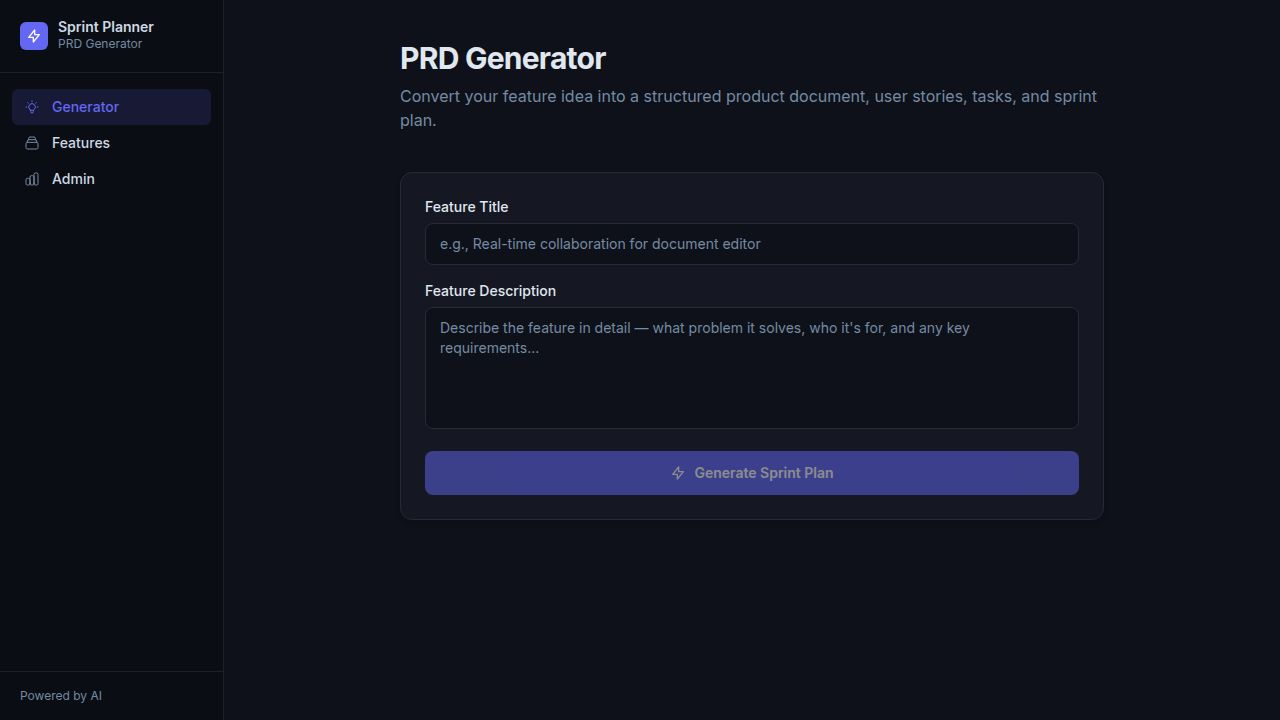
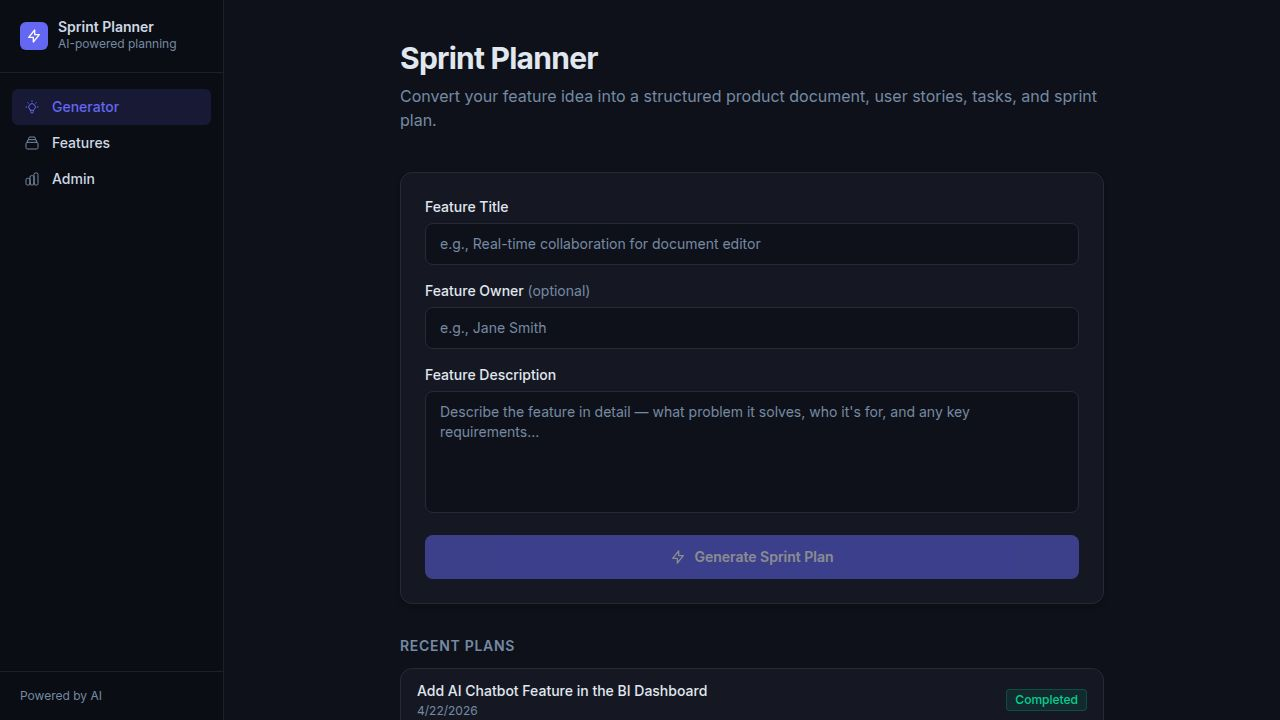
Add feature owner tracking and reporting capabilities to the sprint planner
Introduces an `ownerName` field to the `features` table, API schemas, and frontend forms/views. Includes owner filtering on the Features page and a new "Features by Owner" chart on the Admin Dashboard.

Replit-Commit-Author: Agent
Replit-Commit-Session-Id: 9315dca2-bc02-44ef-9aff-f56e471ed505
Replit-Commit-Checkpoint-Type: full_checkpoint
Replit-Commit-Event-Id: bdafb7a0-9e80-4839-8b6c-be1e6f203f5d
Replit-Commit-Screenshot-Url: https://storage.googleapis.com/screenshot-production-us-central1/74670118-1cdc-4ae3-b2b8-23c83b443172/9315dca2-bc02-44ef-9aff-f56e471ed505/5VO8XEa
Replit-Helium-Checkpoint-Created: true

diff --git a/artifacts/sprint-planner/src/pages/Admin.tsx b/artifacts/sprint-planner/src/pages/Admin.tsx
@@ -1,4 +1,4 @@
-import { useGetAdminStats, useGetRecentActivity, useListPrds } from "@workspace/api-client-react";
+import { useGetAdminStats, useGetRecentActivity, useListPrds, useListFeatures } from "@workspace/api-client-react";
 import { useLocation } from "wouter";
 import {
   BarChart, Bar, PieChart, Pie, Cell, XAxis, YAxis, Tooltip, ResponsiveContainer, Legend,
@@ -32,9 +32,28 @@ export default function Admin() {
   const { data: stats, isLoading: statsLoading } = useGetAdminStats();
   const { data: activity, isLoading: activityLoading } = useGetRecentActivity();
   const { data: prds } = useListPrds();
+  const { data: features } = useListFeatures();
   const [, navigate] = useLocation();
 
   const prdById = new Map((prds || []).map(p => [p.id, p]));
+  const prdByFeatureId = new Map((prds || []).map(p => [p.featureId, p]));
+
+  const ownerData = (() => {
+    const map = new Map<string, { features: number; tasks: number; effortPoints: number }>();
+    for (const f of (features || [])) {
+      const owner = f.ownerName || "Unassigned";
+      const prd = prdByFeatureId.get(f.id);
+      const existing = map.get(owner) || { features: 0, tasks: 0, effortPoints: 0 };
+      map.set(owner, {
+        features: existing.features + 1,
+        tasks: existing.tasks + (prd?.totalTasks ?? 0),
+        effortPoints: existing.effortPoints + (prd?.totalEffortPoints ?? 0),
+      });
+    }
+    return Array.from(map.entries())
+      .map(([name, data]) => ({ name, ...data }))
+      .sort((a, b) => b.features - a.features);
+  })();
 
   const priorityData = stats ? [
     { name: "Critical", value: stats.tasksByPriority.critical },
@@ -112,6 +131,56 @@ export default function Admin() {
           )}
         </>
       ) : null}
+
+      {ownerData.length > 0 && (
+        <div className="bg-card border border-card-border rounded-xl p-5 mb-8">
+          <h3 className="text-sm font-semibold text-foreground mb-1">Features by Owner</h3>
+          <p className="text-xs text-muted-foreground mb-4">Tasks and effort points broken down per feature owner</p>
+          <div className="overflow-x-auto">
+            <table className="w-full text-sm">
+              <thead>
+                <tr className="border-b border-card-border">
+                  <th className="text-left text-xs font-medium text-muted-foreground uppercase tracking-wider pb-2 pr-6">Owner</th>
+                  <th className="text-right text-xs font-medium text-muted-foreground uppercase tracking-wider pb-2 pr-6">Features</th>
+                  <th className="text-right text-xs font-medium text-muted-foreground uppercase tracking-wider pb-2 pr-6">Tasks</th>
+                  <th className="text-right text-xs font-medium text-muted-foreground uppercase tracking-wider pb-2">Effort pts</th>
+                </tr>
+              </thead>
+              <tbody className="divide-y divide-border">
+                {ownerData.map(row => (
+                  <tr key={row.name}>
+                    <td className="py-2.5 pr-6">
+                      <div className="flex items-center gap-2">
+                        <div className="w-6 h-6 rounded-full bg-primary/20 flex items-center justify-center flex-shrink-0">
+                          <span className="text-xs font-semibold text-primary">{row.name[0].toUpperCase()}</span>
+                        </div>
+                        <span className="text-foreground font-medium">{row.name}</span>
+                      </div>
+                    </td>
+                    <td className="py-2.5 pr-6 text-right tabular-nums text-foreground">{row.features}</td>
+                    <td className="py-2.5 pr-6 text-right tabular-nums text-blue-400">{row.tasks}</td>
+                    <td className="py-2.5 text-right tabular-nums text-amber-400">{row.effortPoints}</td>
+                  </tr>
+                ))}
+              </tbody>
+            </table>
+          </div>
+          {ownerData.length > 1 && (
+            <div className="mt-4">
+              <ResponsiveContainer width="100%" height={180}>
+                <BarChart data={ownerData} margin={{ top: 5, right: 10, bottom: 5, left: 0 }}>
+                  <XAxis dataKey="name" tick={{ fill: "hsl(213 20% 55%)", fontSize: 11 }} axisLine={false} tickLine={false} />
+                  <YAxis tick={{ fill: "hsl(213 20% 55%)", fontSize: 11 }} axisLine={false} tickLine={false} />
+                  <Tooltip contentStyle={{ background: "hsl(226 24% 11%)", border: "1px solid hsl(226 18% 18%)", borderRadius: "8px", color: "hsl(213 31% 91%)" }} />
+                  <Legend wrapperStyle={{ fontSize: 11, color: "hsl(213 20% 55%)" }} />
+                  <Bar dataKey="features" name="Features" fill="#6366f1" radius={[4, 4, 0, 0]} />
+                  <Bar dataKey="tasks" name="Tasks" fill="#3b82f6" radius={[4, 4, 0, 0]} />
+                </BarChart>
+              </ResponsiveContainer>
+            </div>
+          )}
+        </div>
+      )}
 
       <div className="bg-card border border-card-border rounded-xl overflow-hidden">
         <div className="px-5 py-4 border-b border-card-border">

diff --git a/artifacts/sprint-planner/src/pages/Features.tsx b/artifacts/sprint-planner/src/pages/Features.tsx
@@ -21,6 +21,7 @@ const statusLabels: Record<string, string> = {
 
 export default function Features() {
   const [search, setSearch] = useState("");
+  const [ownerFilter, setOwnerFilter] = useState("");
   const [, navigate] = useLocation();
   const queryClient = useQueryClient();
 
@@ -30,8 +31,16 @@ export default function Features() {
 
   const prdByFeatureId = new Map((prds || []).map(p => [p.featureId, p]));
 
+  const allOwners = Array.from(
+    new Set((features || []).map(f => f.ownerName).filter(Boolean) as string[])
+  ).sort();
+
   const filtered = (features || [])
-    .filter(f => !search || f.title.toLowerCase().includes(search.toLowerCase()) || f.description.toLowerCase().includes(search.toLowerCase()))
+    .filter(f => {
+      const matchesSearch = !search || f.title.toLowerCase().includes(search.toLowerCase()) || f.description.toLowerCase().includes(search.toLowerCase());
+      const matchesOwner = !ownerFilter || f.ownerName === ownerFilter;
+      return matchesSearch && matchesOwner;
+    })
     .slice()
     .reverse();
 
@@ -66,8 +75,8 @@ export default function Features() {
         </button>
       </div>
 
-      <div className="mb-5">
-        <div className="relative">
+      <div className="mb-5 flex gap-3">
+        <div className="relative flex-1">
           <svg className="absolute left-3 top-1/2 -translate-y-1/2 w-4 h-4 text-muted-foreground" fill="none" viewBox="0 0 24 24" stroke="currentColor">
             <path strokeLinecap="round" strokeLinejoin="round" strokeWidth={2} d="M21 21l-6-6m2-5a7 7 0 11-14 0 7 7 0 0114 0z" />
           </svg>
@@ -79,6 +88,18 @@ export default function Features() {
             className="w-full pl-10 pr-4 py-2.5 bg-card border border-card-border rounded-lg text-sm text-foreground placeholder:text-muted-foreground focus:outline-none focus:ring-2 focus:ring-ring focus:border-transparent"
           />
         </div>
+        {allOwners.length > 0 && (
+          <select
+            value={ownerFilter}
+            onChange={e => setOwnerFilter(e.target.value)}
+            className="pl-3 pr-8 py-2.5 bg-card border border-card-border rounded-lg text-sm text-foreground focus:outline-none focus:ring-2 focus:ring-ring focus:border-transparent appearance-none cursor-pointer"
+          >
+            <option value="">All Owners</option>
+            {allOwners.map(owner => (
+              <option key={owner} value={owner}>{owner}</option>
+            ))}
+          </select>
+        )}
       </div>
 
       {isLoading ? (
@@ -113,6 +134,16 @@ export default function Features() {
                     <span className={cn("text-xs px-2 py-0.5 rounded border font-medium flex-shrink-0", statusColors[feature.status] || statusColors.pending)}>
                       {statusLabels[feature.status] || feature.status}
                     </span>
+                  </div>
+                  <div className="flex items-center gap-3 mt-0.5">
+                    {feature.ownerName && (
+                      <span className="text-xs text-indigo-400 flex items-center gap-1">
+                        <svg className="w-3 h-3" fill="none" viewBox="0 0 24 24" stroke="currentColor">
+                          <path strokeLinecap="round" strokeLinejoin="round" strokeWidth={2} d="M16 7a4 4 0 11-8 0 4 4 0 018 0zM12 14a7 7 0 00-7 7h14a7 7 0 00-7-7z" />
+                        </svg>
+                        {feature.ownerName}
+                      </span>
+                    )}
                   </div>
                   <p className="text-xs text-muted-foreground mt-1 truncate">{feature.description}</p>
                   {prd && (

diff --git a/artifacts/sprint-planner/src/pages/Home.tsx b/artifacts/sprint-planner/src/pages/Home.tsx
@@ -23,6 +23,7 @@ const statusLabels: Record<string, string> = {
 export default function Home() {
   const [title, setTitle] = useState("");
   const [description, setDescription] = useState("");
+  const [ownerName, setOwnerName] = useState("");
   const [generatingId, setGeneratingId] = useState<number | null>(null);
   const [, navigate] = useLocation();
   const { toast } = useToast();
@@ -39,9 +40,16 @@ export default function Home() {
     if (!title.trim() || !description.trim()) return;
 
     try {
-      const feature = await createFeature.mutateAsync({ data: { title: title.trim(), description: description.trim() } });
+      const feature = await createFeature.mutateAsync({
+        data: {
+          title: title.trim(),
+          description: description.trim(),
+          ownerName: ownerName.trim() || null,
+        },
+      });
       setTitle("");
       setDescription("");
+      setOwnerName("");
       setGeneratingId(feature.id);
 
       queryClient.invalidateQueries({ queryKey: getListFeaturesQueryKey() });
@@ -75,6 +83,20 @@ export default function Home() {
               value={title}
               onChange={e => setTitle(e.target.value)}
               placeholder="e.g., Real-time collaboration for document editor"
+              disabled={isGenerating}
+              className="w-full px-3.5 py-2.5 bg-background border border-input rounded-lg text-sm text-foreground placeholder:text-muted-foreground focus:outline-none focus:ring-2 focus:ring-ring focus:border-transparent transition-colors disabled:opacity-50 disabled:cursor-not-allowed"
+            />
+          </div>
+
+          <div>
+            <label className="block text-sm font-medium text-foreground mb-1.5">
+              Feature Owner <span className="text-muted-foreground font-normal">(optional)</span>
+            </label>
+            <input
+              type="text"
+              value={ownerName}
+              onChange={e => setOwnerName(e.target.value)}
+              placeholder="e.g., Jane Smith"
               disabled={isGenerating}
               className="w-full px-3.5 py-2.5 bg-background border border-input rounded-lg text-sm text-foreground placeholder:text-muted-foreground focus:outline-none focus:ring-2 focus:ring-ring focus:border-transparent transition-colors disabled:opacity-50 disabled:cursor-not-allowed"
             />

diff --git a/lib/db/src/schema/features.ts b/lib/db/src/schema/features.ts
@@ -6,6 +6,7 @@ export const featuresTable = pgTable("features", {
   id: serial("id").primaryKey(),
   title: text("title").notNull(),
   description: text("description").notNull(),
+  ownerName: text("owner_name"),
   status: text("status").notNull().default("pending"),
   createdAt: timestamp("created_at", { withTimezone: true }).notNull().defaultNow(),
   updatedAt: timestamp("updated_at", { withTimezone: true }).notNull().defaultNow().$onUpdate(() => new Date()),
